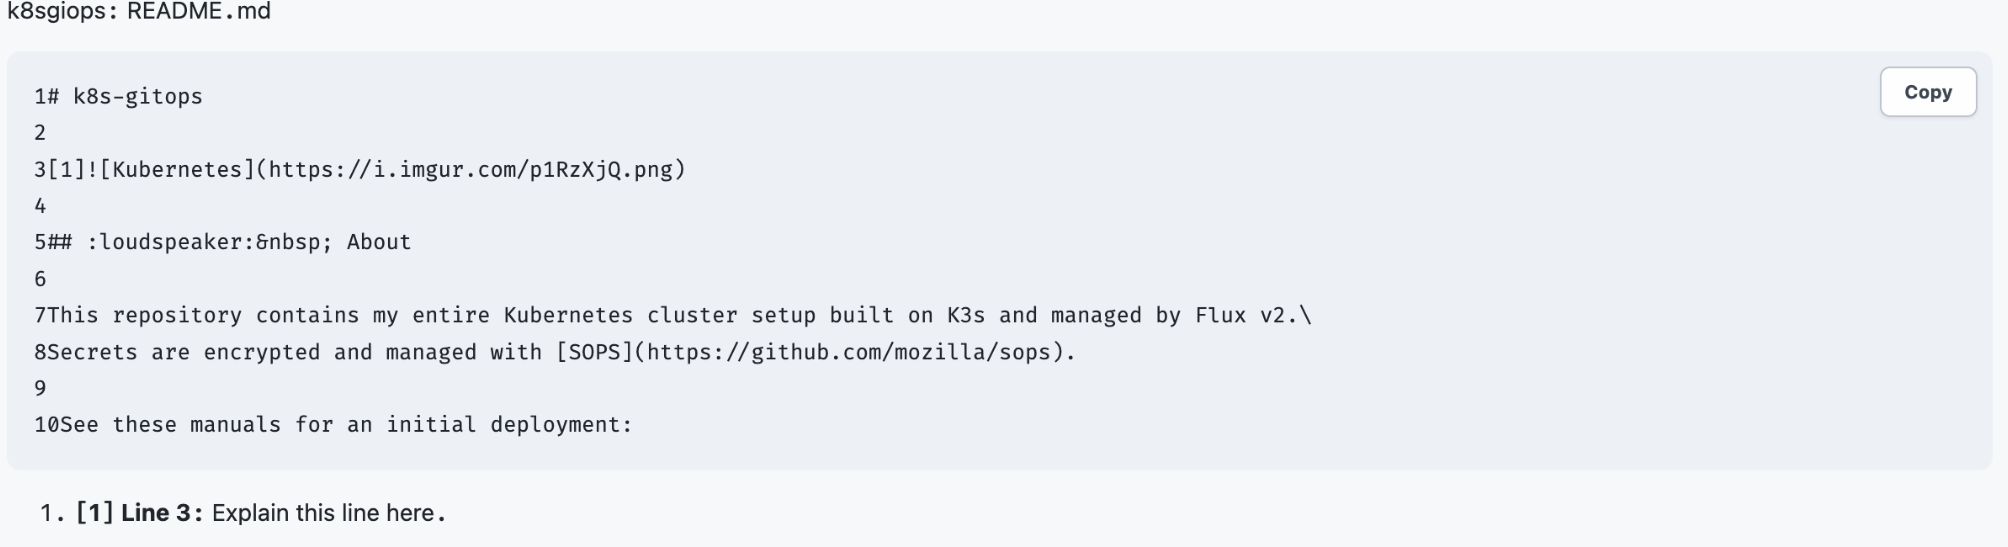
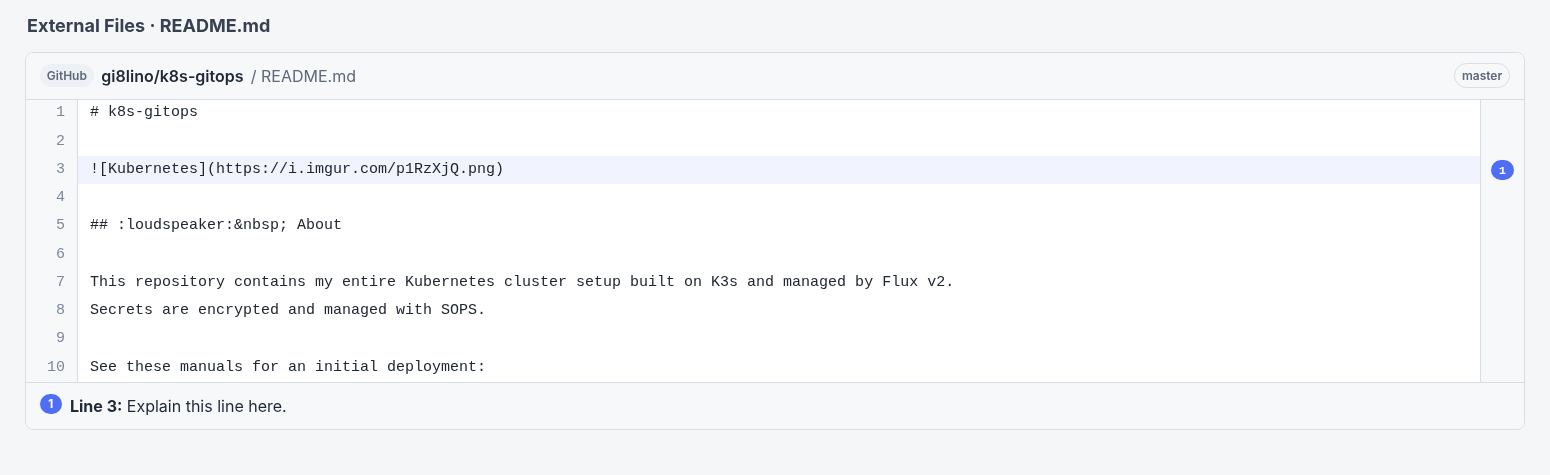
docs: add external-files screenshot

diff --git a/external-files/README.md b/external-files/README.md
@@ -1,22 +1,33 @@
 # External Files
 
-Display whole files or selected lines from administrator-configured GitHub and GitLab repositories. File content is displayed as escaped text and is never interpreted as Markdown.
+Display whole files or selected lines from configured GitHub and GitLab repositories, including self-hosted instances. File content is displayed as text and is never executed or interpreted as Markdown.
 
-The plugin is disabled by default.
+This plugin is disabled by default. It uses Kumbuka's generic plugin resources for connection settings and the generic host-mediated HTTP capability for network access.
 
 ## Setup
 
-1. Configure `KUMBUKA__ENCRYPTION_KEY` before saving repository credentials.
-2. Open **Administration → External Files** in the plugin settings section below **Recycle bin**.
-3. Add a source with a unique name, `github` or `gitlab` provider, HTTPS API endpoint, repository, and explicit branch/tag/commit.
-4. Optionally add a dedicated read-only access token. Secret fields are encrypted by Kumbuka and are available only to the owning plugin at runtime.
-5. Enable the source, then enable the External Files plugin.
+1. Configure `KUMBUKA__ENCRYPTION_KEY` before storing repository credentials.
+2. Install and enable External Files.
+3. Open **Administration → Plugin settings → External Files**.
+4. Add a source with a unique name, provider, API endpoint, repository, and explicit branch, tag, or commit.
+5. Under **Appearance**, choose the default reference side and color and whether line numbers, referenced-line highlighting, provider, and revision metadata are shown.
+6. For private repositories, add a dedicated read-only token restricted to that repository.
+7. For an internal server, add the exact RFC1918 or IPv6 ULA addresses the provider hostname is allowed to resolve to.
 
-Typical API endpoints are `https://api.github.com`, GitHub Enterprise `/api/v3`, GitLab `https://gitlab.com/api/v4`, or a self-hosted GitLab `/api/v4` endpoint.
+Examples of API endpoints:
 
-Use **Skip TLS certificate verification** only for a source that cannot use normal certificate validation. A trusted certificate is preferable. The plugin must explicitly declare the `network:insecure-tls` capability before Kumbuka accepts such a request.
+- GitHub.com: `https://api.github.com`
+- GitHub Enterprise: `https://git.example.com/api/v3`
+- GitLab.com: `https://gitlab.com/api/v4`
+- Self-hosted GitLab: `https://git.example.com/api/v4`
+
+GitHub repositories use `owner/repository`. GitLab repositories may contain nested group paths. Use a commit SHA when annotations must remain stable.
+
+The source setting **Skip TLS certificate verification** is off by default. Prefer configuring a trusted CA with `SSL_CERT_FILE` or `SSL_CERT_DIR`; use the insecure switch only for a source whose transport you explicitly trust.
 
 ## Usage
+
+Place each macro on its own line, outside a code fence.
 
 Whole file:
 
@@ -30,36 +41,83 @@ Single original line:
 {{external-file source="engineering" path="src/main.go" lines="12"}}
 ```
 
-Inclusive line range with annotations:
+Inclusive line range with numbered annotations:
 
 ```markdown
 {{external-file source="engineering" path="src/main.go" lines="10-25" note="12:Initialize the client." note="19:Handle errors before continuing."}}
 ```
 
-Repeat `note` to annotate multiple lines. Annotation text is always HTML-escaped.
+Repeat `note` to annotate more lines, including multiple notes on one line. Descriptions are plain text. Annotation line numbers refer to the original file and must be inside the displayed range. References are rendered in a dedicated gutter instead of being inserted into the source text.
 
-## Architecture and security
+### Presentation overrides
 
-External Files owns its repository configuration and provider protocol. It reads its structured `sources` settings through `sdk.Resources()` and builds provider requests itself. Kumbuka core has no External Files URL, token, TLS switch, provider model, approval model, or repository-specific HTTP code.
+Appearance defaults are configured under **Administration → Plugin settings → External Files → Appearance**. The defaults are right-side references, accent color, referenced-line highlighting, line numbers, provider label, and branch/tag/commit metadata enabled.
 
-Network I/O still crosses Kumbuka's generic `sdk.HTTP()` host capability. Kumbuka validates bounded HTTP requests, enforces the plugin's declared network permissions, blocks special-use destinations, limits concurrency and response sizes, and performs TLS. `network:private` is required before a plugin may connect to private address space, while loopback, link-local, metadata, and other special-use destinations remain blocked. `network:insecure-tls` is required before a plugin can disable certificate verification for a request.
+A single embed can override those defaults:
 
-Tokens are stored as `secret` fields in the generic plugin settings framework. Kumbuka encrypts them at rest, masks them in administrator forms, and decrypts them only when returning the owning plugin's resource records. Plugins never receive Kumbuka's encryption key.
+```markdown
+{{external-file source="engineering" path="src/main.go" lines="10-25" note="12:Initialize the client." reference-position="left" reference-color="yellow" highlight-references="false" line-numbers="true" show-provider="true" show-branch="false"}}
+```
 
-Files are limited to 128 KiB of valid UTF-8 text and 10,000 lines. Control and Unicode formatting characters are rejected. Provider errors and credentials are never rendered into page output.
+Supported `reference-position` values are `right` and `left`. Supported colors are `accent`, `blue`, `green`, `yellow`, `orange`, `red`, `purple`, and `gray`. Boolean overrides accept `true` or `false`.
 
-## Screenshots
+The rendered header shows provider, repository, file path, and revision metadata according to those settings. Line numbers remain separate from annotation markers so the source stays visually aligned.
 
-Rendered file with an inline annotation:
+## Screenshot
 
-![External Files renders annotated source excerpts inside Kumbuka.](assets/screenshots/external-files-annotated-readme.png)
+Default presentation with left-side line numbers and right-side annotation references:
 
-The screenshot above shows the current renderer before the right-side annotation gutter redesign. It still demonstrates the plugin's core workflow: stable line selection, escaped source text, copy support, and a human-readable explanation anchored to original file lines.
+![External Files showing a GitHub README with a right-side annotation gutter.](assets/screenshots/external-files-annotated-readme.png)
+
+## Settings ownership
+
+All source and appearance fields belong to this plugin. Kumbuka does not have External Files-specific URL, token, provider, TLS, reference-position, color, or line-number configuration.
+
+Kumbuka generically renders and stores the plugin's manifest-declared typed settings and resource fields. `secret` fields are encrypted at rest and masked in administration; the plugin receives the decrypted value through `sdk.Resources()` when it reads its own source record.
+
+External Files then creates an `sdk.HTTPRequest`. Kumbuka performs the actual network I/O and applies generic host security policy. The plugin requests these permissions:
+
+- `settings:read` to read its source records;
+- `network:http` for outbound HTTP(S);
+- `network:private` so explicitly configured exact private addresses can be used;
+- `network:insecure-tls` so a source can explicitly disable origin certificate verification.
+
+## Security and limits
+
+- Tokens never appear in Markdown, URLs, browser storage, or rendered plugin output.
+- Only authenticated Kumbuka invocation contexts can use the generic HTTP capability. Public share rendering cannot fetch external files.
+- External Files accepts HTTPS provider endpoints only and never follows redirects because the host HTTP client disables them.
+- Kumbuka validates and pins resolved destination addresses before dialing. Private destinations require exact addresses supplied by this plugin from the administrator-managed source. Loopback, link-local, shared-address space, metadata, documentation, and other special-use destinations remain blocked.
+- External Files validates provider responses and accepts at most 128 KiB of UTF-8 text and 10,000 lines. Binary/control content and Unicode formatting controls are rejected. Git LFS objects are not expanded.
+- A maximum of 32 annotations is allowed per embed, with 2,048 bytes per description.
+- The plugin permits at most 30 fetch attempts per source per minute. Kumbuka separately applies generic HTTP request/response bounds, timeouts, concurrency limits, and the plugin invocation deadline.
+- Provider errors and credentials are never copied into page error boxes.
+- External content is not stored in rendered-page artifacts or a shared content cache.
+
+An administrator-configured source grants this plugin access to the repository at the selected revision. It is not a per-reader repository ACL. Use a dedicated repository when only a subset of content should be disclosed.
+
+## Proxy and CA environment settings
+
+Kumbuka's generic plugin HTTP client honors conventional deployment networking settings:
+
+- `HTTPS_PROXY` / `https_proxy`
+- `HTTP_PROXY` / `http_proxy`
+- `NO_PROXY` / `no_proxy`
+- `SSL_CERT_FILE`
+- `SSL_CERT_DIR`
+
+Proxy configuration belongs to the Kumbuka process, not to this plugin. Proxy TLS verification is never disabled by a plugin source's **Skip TLS certificate verification** setting.
 
 ## Build
 
-External Files requires the SDK release that provides `Resources()` and the generic `HTTP()` capability.
+Build the package with the repository tooling:
 
 ```sh
 ./scripts/build-plugin.sh external-files dist
 ```
+
+## References
+
+- [GitHub repository contents API](https://docs.github.com/en/rest/repos/contents)
+- [GitLab repository files API](https://docs.gitlab.com/api/repository_files/)
+- [OWASP SSRF prevention](https://cheatsheetseries.owasp.org/cheatsheets/Server_Side_Request_Forgery_Prevention_Cheat_Sheet.html)
